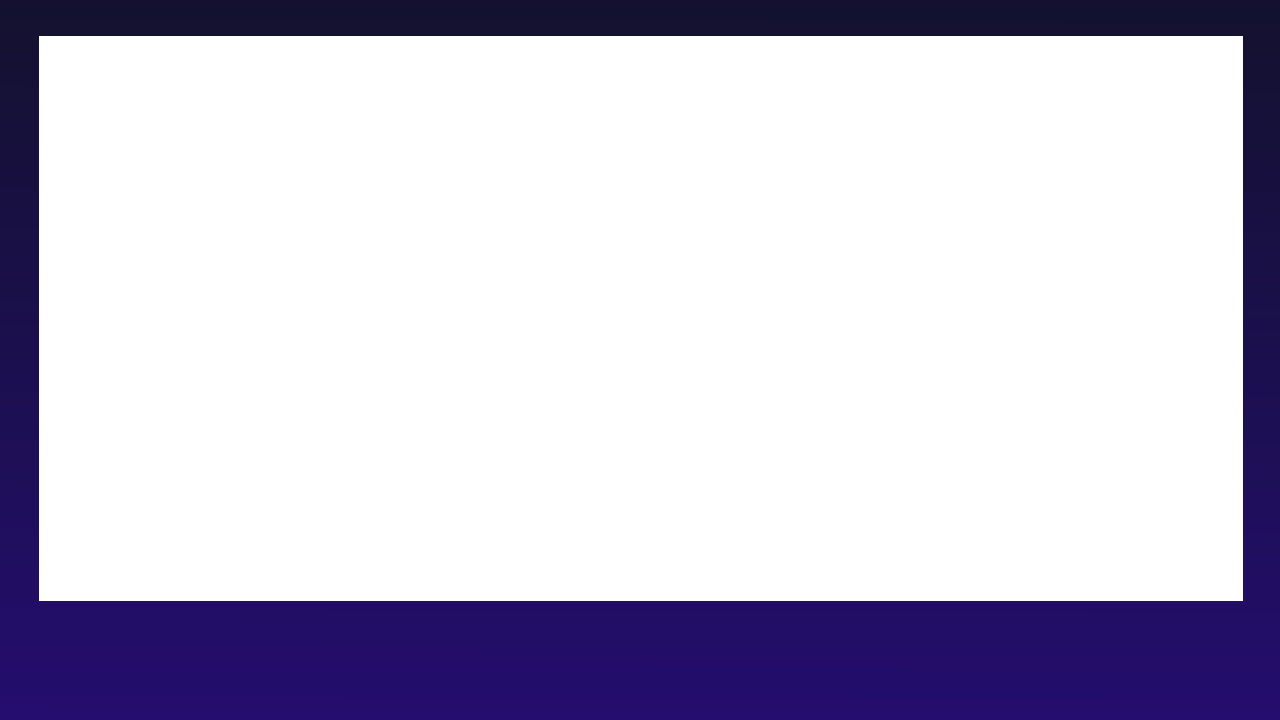
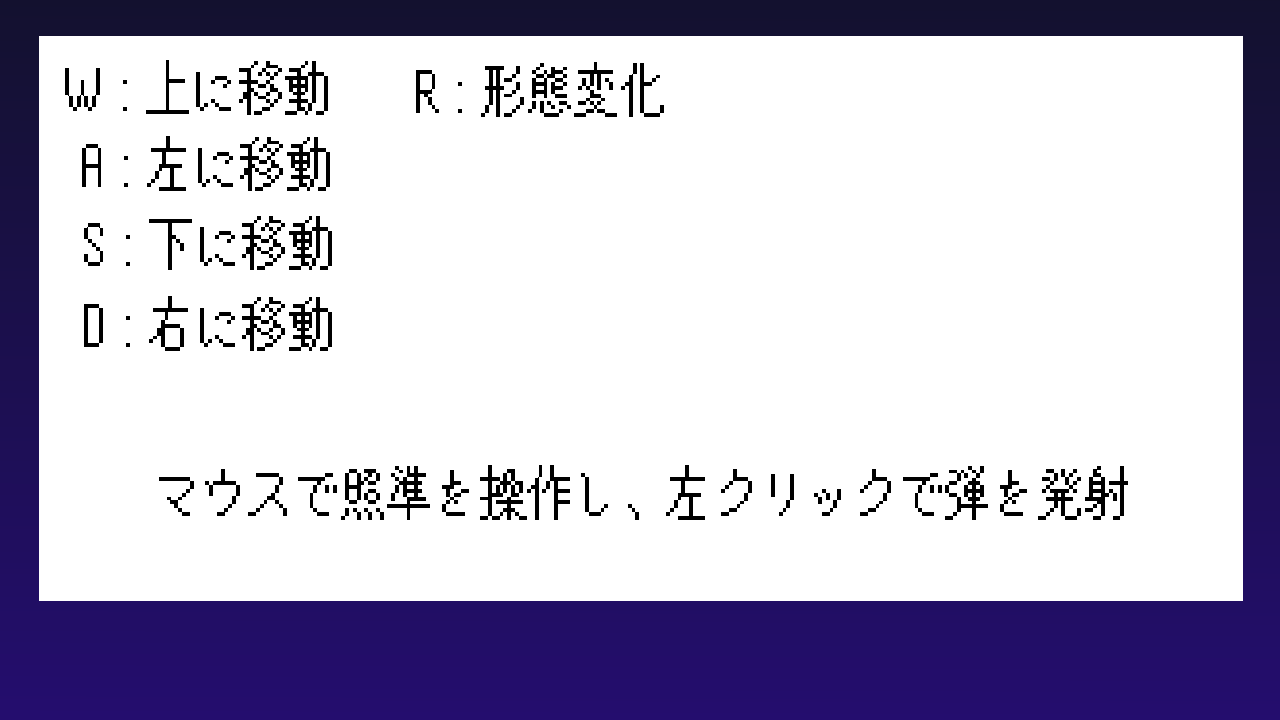
ステージセレクト画面を作り、操作説明を追加。

diff --git a/StageSelect.cpp b/StageSelect.cpp
@@ -1,0 +1,105 @@
+#include "StageSelect.h"
+#include "SceneChange.h"
+#include "TextureManager.h"
+
+StageSelect::StageSelect() {
+	easing_ = new Easing();
+
+	// 画像を読み込み、スプライトを生成する
+	uint32_t stageSelectBgTextureHandle_ = TextureManager::Load("stage_select_bg.png");
+	stageSelectBgSprite_ = Sprite::Create(stageSelectBgTextureHandle_, Vector2{0.0f, 0.0f});
+	uint32_t pushNextTextureHandle = TextureManager::Load("push_next.png");
+	pushNextSprite_ = Sprite::Create(
+	    pushNextTextureHandle, Vector2{}, {1, 1, 1, 1}, {0.5f, 0.5f});
+
+	uint32_t stage1SelectTextureHandle = TextureManager::Load("stage1_select.png");
+	stageSprite_[0] = Sprite::Create(
+	    stage1SelectTextureHandle, Vector2{640.0f - 250, 380.0f}, {1, 1, 1, 1}, {0.5f, 0.5f});
+	uint32_t bossSelectTextureHandle = TextureManager::Load("boss_stage_select.png");
+	stageSprite_[1] = Sprite::Create(
+	    bossSelectTextureHandle, Vector2{640.0f + 250, 380.0f}, {1, 1, 1, 1}, {0.5f, 0.5f});
+	uint32_t selectTextureHandle = TextureManager::Load("select.png");
+	selectSprite_ = Sprite::Create(
+	    selectTextureHandle, stageSprite_[0]->GetPosition(), {1, 1, 1, 1}, {0.5f, 0.5f});
+
+	uint32_t arrowRightTextureHandle = TextureManager::Load("select_arrow_right.png");
+	arrowRightSprite_ = Sprite::Create(
+	    arrowRightTextureHandle, Vector2{1280.0f - 170.0f, 380.0f}, {1, 1, 1, 1}, {0.5f, 0.5f});
+	uint32_t arrowLeftTextureHandle = TextureManager::Load("select_arrow_left.png");
+	arrowLeftSprite_ =
+	    Sprite::Create(arrowLeftTextureHandle, Vector2{170.0f, 380.0f}, {1, 1, 1, 1}, {0.5f, 0.5f});
+
+	uint32_t backTitleTextureHandle = TextureManager::Load("back_title.png");
+	backTitleSprite_ =
+	    Sprite::Create(backTitleTextureHandle, Vector2{80.0f, 80.0f}, {1, 1, 1, 1}, {0.5f, 0.5f});
+}
+
+StageSelect::~StageSelect() {
+	delete easing_;
+	delete stageSelectBgSprite_;
+	for (uint32_t i = 0; i < maxStageNum_; i++) {
+		delete stageSprite_[i];
+	}
+	delete selectSprite_;
+	delete arrowRightSprite_;
+	delete arrowLeftSprite_;
+	delete pushNextSprite_;
+	delete backTitleSprite_;
+}
+
+void StageSelect::Initialize(SceneNum* pScene) {
+	selectSprite_->SetPosition(stageSprite_[0]->GetPosition());
+	stageNum_ = 0;
+	isEase_ = false;
+	input_ = Input::GetInstance();
+	pScene_ = pScene;
+}
+
+void StageSelect::Update() {
+	// SPACEで選択したシーンに遷移する
+	if (input_->PushKey(DIK_SPACE) && !isEase_) {
+		if (stageNum_ == 0) {
+			SceneChange::GetInstance()->Change(SceneNum::STAGE, pScene_);
+		} else if (stageNum_ == 1) {
+			SceneChange::GetInstance()->Change(SceneNum::BOSS_STAGE, pScene_);
+		}
+	}
+	else if (input_->PushKey(DIK_ESCAPE)) {
+		SceneChange::GetInstance()->Change(SceneNum::TITLE, pScene_);
+	}
+
+	if (!isEase_) {
+		if ((input_->PushKey(DIK_RIGHT) || input_->PushKey(DIK_D)) &&
+		    stageNum_ < maxStageNum_ - 1) {
+			// イージングフラグをtrueにし、イージングの開始値と終了値を設定する
+			isEase_ = true;
+			start = stageSprite_[stageNum_]->GetPosition();
+			stageNum_++;
+			end = stageSprite_[stageNum_]->GetPosition();
+
+		} else if ((input_->PushKey(DIK_LEFT) || input_->PushKey(DIK_A)) && stageNum_ > 0) {
+			// イージングフラグをtrueにし、イージングの開始値と終了値を設定する
+			isEase_ = true;
+			start = stageSprite_[stageNum_]->GetPosition();
+			stageNum_--;
+			end = stageSprite_[stageNum_]->GetPosition();
+		}
+	}
+
+	Vector2 selectPos = selectSprite_->GetPosition();
+	selectPos = easing_->EaseOutSine(selectPos, start, end, 10, isEase_);
+	selectSprite_->SetPosition(selectPos);
+	pushNextSprite_->SetPosition(selectPos + Vector2{0.0f, 100.0f});
+}
+
+void StageSelect::DrawBackground() {
+	stageSelectBgSprite_->Draw();
+	arrowRightSprite_->Draw();
+	arrowLeftSprite_->Draw();
+	for (uint32_t i = 0; i < maxStageNum_; i++) {
+		stageSprite_[i]->Draw();
+	}
+	selectSprite_->Draw();
+	pushNextSprite_->Draw();
+	backTitleSprite_->Draw();
+}

diff --git a/scene/GameScene.cpp b/scene/GameScene.cpp
@@ -32,6 +32,7 @@ GameScene::~GameScene() {
 	delete clear_;
 	delete gameOver_;
 	delete explain_;
+	delete stageSelect_;
 
 	delete debugCamera_;
 }
@@ -40,10 +41,12 @@ void GameScene::Initialize() {
 
 	// デバッグカメラの生成
 	debugCamera_ = new DebugCamera(WinApp::kWindowWidth, WinApp::kWindowHeight);
+#ifdef _DEBUG
 	// 軸方向表示の表示を有効にする
 	AxisIndicator::GetInstance()->SetVisible(true);
 	// 軸方向表示が参照するビュープロジェクションを指定する（アドレス渡し）
 	AxisIndicator::GetInstance()->SetTargetViewProjection(&viewProjection_);
+#endif // _DEBUG
 
 	dxCommon_ = DirectXCommon::GetInstance();
 	input_ = Input::GetInstance();
@@ -110,6 +113,8 @@ void GameScene::Initialize() {
 	gameOver_->Initialize(&scene_);
 	explain_ = new OperationExplain();
 	explain_->Initialize(&scene_);
+	stageSelect_ = new StageSelect();
+	stageSelect_->Initialize(&scene_);
 }
 
 void GameScene::SceneInitialize() {
@@ -151,6 +156,7 @@ void GameScene::SceneInitialize() {
 	clear_->Initialize(&scene_);
 	gameOver_->Initialize(&scene_);
 	explain_->Initialize(&scene_);
+	stageSelect_->Initialize(&scene_);
 
 	// コマンドの初期化
 	isDefeat_ = false;
@@ -205,6 +211,9 @@ void GameScene::Update() {
 		break;
 	case SceneNum::EXPLAIN:
 		explain_->Update();
+		break;
+	case SceneNum::STAGE_SELECT:
+		stageSelect_->Update();
 		break;
 	case SceneNum::STAGE:
 		UpdateEnemyPopCommands();
@@ -396,6 +405,9 @@ void GameScene::Draw() {
 	case SceneNum::EXPLAIN:
 		explain_->DrawBackground();
 		break;
+	case SceneNum::STAGE_SELECT:
+		stageSelect_->DrawBackground();
+		break;
 	case SceneNum::STAGE:
 		player_->DrawUI();
 		break;
@@ -499,9 +511,6 @@ void GameScene::UpdateEnemyPopCommands() {
 			enemy;
 			enemyCount++;
 		}
-		ImGui::Begin("enemyCount");
-		ImGui::Text("%d", enemyCount);
-		ImGui::End();
 		if (enemyCount <= 0) {
 			isDefeat_ = false;
 		}

diff --git a/StageSelect.h b/StageSelect.h
@@ -1,0 +1,57 @@
+#pragma once
+#include "Scene.h"
+#include "Input.h"
+#include "Sprite.h"
+#include "Easing.h"
+
+class StageSelect {
+public:
+	/// <summary>
+	/// コンストラク
+	/// </summary>
+	StageSelect();
+	/// <summary>
+	/// デストラクタ
+	/// </summary>
+	~StageSelect();
+
+	/// <summary>
+	/// 初期化
+	/// </summary>
+	void Initialize(SceneNum* pScene);
+
+	/// <summary>
+	/// 更新
+	/// </summary>
+	void Update();
+
+	/// <summary>
+	/// 描画
+	/// </summary>
+	void DrawBackground();
+
+private:
+	Input* input_ = nullptr;
+	// シーン変数のポインタ
+	SceneNum* pScene_ = nullptr;
+
+	//イージング関連
+	Easing* easing_ = nullptr;
+	bool isEase_ = false;
+	Vector2 start = {};
+	Vector2 end = {};
+	//ステージの数
+	const uint32_t maxStageNum_ = 2;
+	uint32_t stageNum_ = 0;
+	uint32_t stageSelect_[2] = {};
+
+	// 画像関連
+	Sprite* stageSelectBgSprite_ = nullptr;
+	Sprite* pushNextSprite_ = nullptr;
+
+	Sprite* selectSprite_ = nullptr;
+	Sprite* stageSprite_[2] = {};
+	Sprite* arrowRightSprite_ = nullptr;
+	Sprite* arrowLeftSprite_ = nullptr;
+	Sprite* backTitleSprite_ = nullptr;
+};

diff --git a/Easing.h b/Easing.h
@@ -1,5 +1,6 @@
 #pragma once
 #include "Vector3.h"
+#include "Vector2.h"
 #define PIf 3.1415926f
 
 class Easing {
@@ -40,6 +41,18 @@ public:
 	/// <returns></returns>
 	Vector3 EaseOutSine(
 	    const Vector3& value, const Vector3& start, const Vector3& end, int maxFrame, bool& isEase);
+
+	/// <summary>
+	/// イーズアウト
+	/// </summary>
+	/// <param name="value">イージングさせたい</param>
+	/// <param name="start"></param>
+	/// <param name="end"></param>
+	/// <param name="maxFrame">終了するまでのフレーム数</param>
+	/// <param name="isEase">イージングするかどうか</param>
+	/// <returns></returns>
+	Vector2 EaseOutSine(
+	    const Vector2& value, const Vector2& start, const Vector2& end, int maxFrame, bool& isEase);
 
 	/// <summary>
 	/// イーズアウト（弾性）

diff --git a/Easing.cpp b/Easing.cpp
@@ -67,6 +67,28 @@ Vector3 Easing::EaseOutSine(
 	return value;
 }
 
+Vector2 Easing::EaseOutSine(
+    const Vector2& value, const Vector2& start, const Vector2& end, int maxFrame, bool& isEase) {
+	if (!isEase) {
+		timeCount = 0;
+		return value;
+	}
+
+	if (timeCount < maxFrame) {
+		timeCount++;
+		if (timeCount >= maxFrame) {
+			isEase = false;
+			return end;
+		}
+		Vector2 dis = end - start;
+		float t = float(timeCount) / float(maxFrame);
+		float ease = sinf((t * PIf) / 2.0f);
+		return (dis * ease) + start;
+	}
+	timeCount = 0;
+	return value;
+}
+
 Vector3 Easing::EaseOutElastic(
     const Vector3& value, const Vector3& start, const Vector3& end, int maxFrame, bool& isEase) {
 	if (!isEase) {

diff --git a/Title.cpp b/Title.cpp
@@ -28,9 +28,9 @@ void Title::Initialize(SceneNum* pScene) {
 }
 
 void Title::Update() {
-	// SPACEでSTAGEシーンに遷移する
+	// SPACEでSTAGE_SELECTシーンに遷移する
 	if (input_->PushKey(DIK_SPACE)) {
-		SceneChange::GetInstance()->Change(SceneNum::STAGE, pScene_);
+		SceneChange::GetInstance()->Change(SceneNum::STAGE_SELECT, pScene_);
 	} else if (input_->PushKey(DIK_RETURN)) {
 		SceneChange::GetInstance()->Change(SceneNum::EXPLAIN, pScene_);
 	}

diff --git a/scene/GameScene.h b/scene/GameScene.h
@@ -21,6 +21,7 @@
 #include "Clear.h"
 #include "GameOver.h"
 #include "OperationExplain.h"
+#include "StageSelect.h"
 #include "Scene.h"
 #include "ParticleSystem.h"
 
@@ -92,6 +93,7 @@ private: // メンバ変数
 	Clear* clear_ = nullptr;
 	GameOver* gameOver_ = nullptr;
 	OperationExplain* explain_ = nullptr;
+	StageSelect* stageSelect_ = nullptr;
 	SceneNum preScene_ = scene_;
 
 	std::stringstream stage1EnemyPopCommands;

diff --git a/Particle.cpp b/Particle.cpp
@@ -69,11 +69,6 @@ void Particle::Update() {
 	default:
 		break;
 	}
-	ImGui::Begin("a");
-	ImGui::Text(
-	    "%f,%f,%f", parameter_.world_.rotation_.x, parameter_.world_.rotation_.y,
-	    parameter_.world_.rotation_.z);
-	ImGui::End();
 	parameter_.world_.UpdateMatrix();
 }
 

diff --git a/Scene.h b/Scene.h
@@ -6,6 +6,7 @@
 enum class SceneNum {
 	TITLE,
 	EXPLAIN,
+	STAGE_SELECT,
 	STAGE,
 	BOSS_STAGE,
 	CLEAR,
